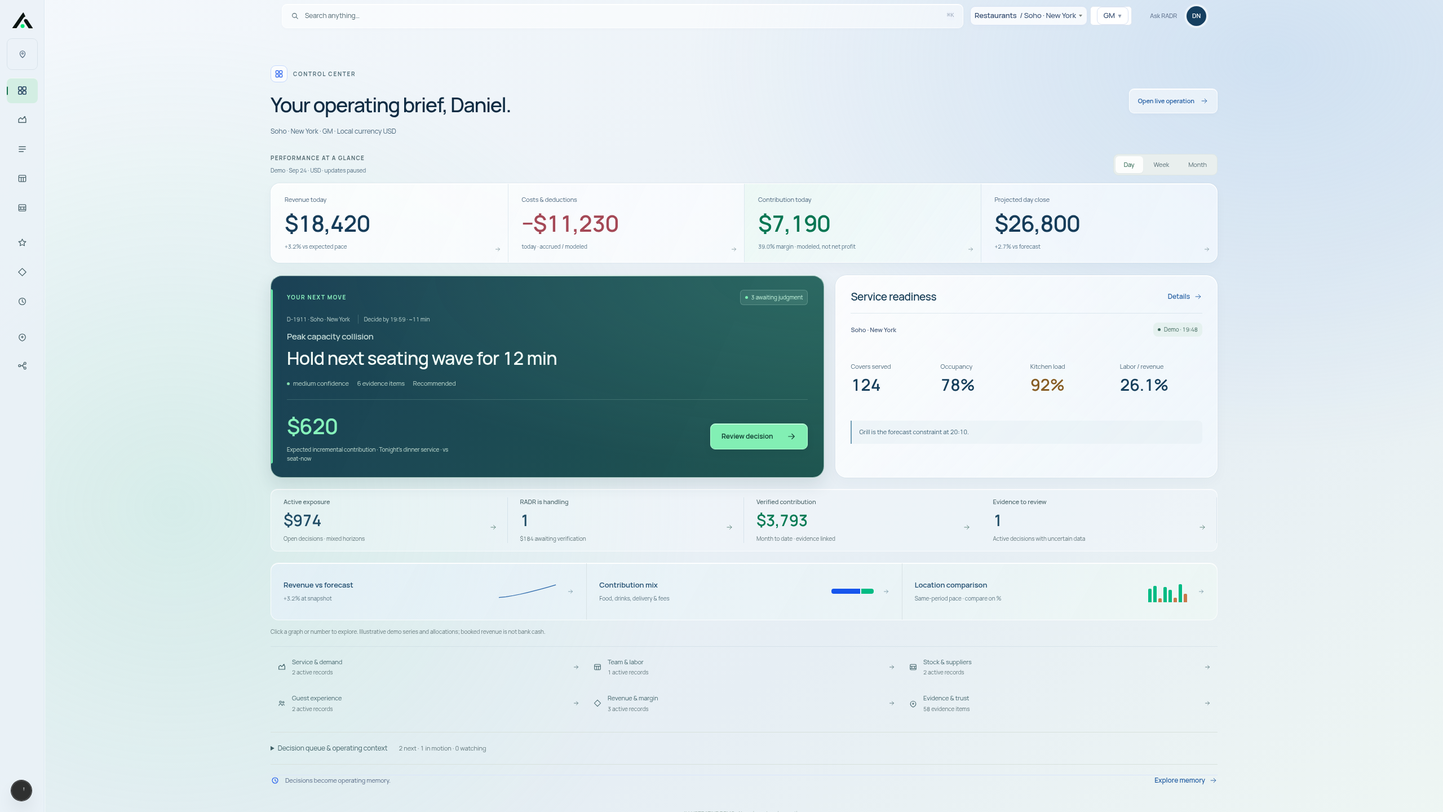
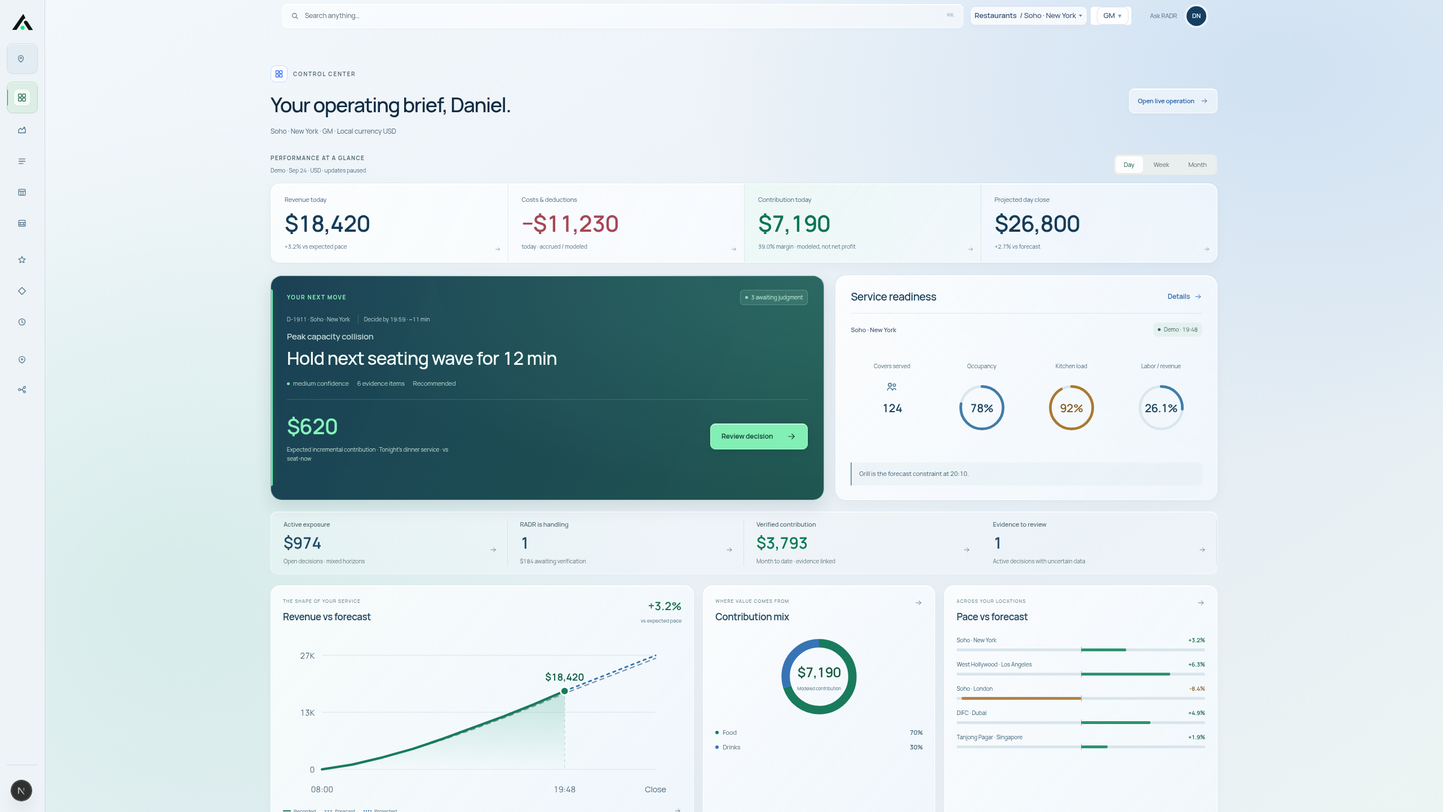
Add visual financial context and readiness instruments to Control Center

diff --git a/components/product/reference/ControlCenterPremium.tsx b/components/product/reference/ControlCenterPremium.tsx
@@ -40,6 +40,13 @@ function DecisionLine({ record }: { record: DecisionRecord }) {
   </Link>;
 }
 
+function ReadinessFact({fact}:{fact:{label:string;value:string;risk?:boolean}}) {
+  const ratio=fact.value.match(/^(\d+)\/(\d+)$/);
+  const percentage=fact.value.endsWith("%")?Number.parseFloat(fact.value):ratio&&Number(ratio[2])>0?Number(ratio[1])/Number(ratio[2])*100:null;
+  const Icon=/covers|arrivals/i.test(fact.label)?NAV_ICONS.guests:NAV_ICONS.value;
+  return <div className="cc-readiness-instrument" data-risk={fact.risk||undefined}><span>{fact.label}</span><div className="cc-instrument-face">{percentage!==null&&Number.isFinite(percentage)?<svg viewBox="0 0 100 100" aria-hidden="true"><circle cx="50" cy="50" r="40" className="cc-instrument-track"/><circle cx="50" cy="50" r="40" className="cc-instrument-progress" pathLength="100" strokeDasharray={`${Math.min(100,Math.max(0,percentage))} 100`} transform="rotate(-90 50 50)"/></svg>:<Icon/>}<strong>{fact.value}</strong></div></div>;
+}
+
 /** A scoped daily brief. Operating snapshots are explicitly tied to their demo venue. */
 export function ControlCenterPremium() {
   const { roleView, vertical, records, summary, scopeLabel, locationScope, comparisonLocationIds } = useRecords();
@@ -86,12 +93,12 @@ export function ControlCenterPremium() {
       <section className="cc-priority" aria-labelledby="cc-priority-title"><header><span className="cc-section-label">YOUR NEXT MOVE</span><StatusPill tone={primary?"attention":"healthy"}>{needs.length?`${needs.length} awaiting judgment`:"No review pending"}</StatusPill></header>
        {primary?<><div className="cc-priority-meta"><span>{displayDecisionId(primary.id)} · {primary.property}</span><span>{primary.decisionDeadline||clean(primary.decisionHorizon.replaceAll("_"," ").toLowerCase())}</span></div><h2 id="cc-priority-title">{primary.title}</h2><p className="cc-priority-recommendation">{clean(primary.recommendationHeadline||primary.contextLine)}</p><div className="cc-decision-assurance"><span><i aria-hidden="true"/>{primary.confidence.userFacing.toLowerCase()} confidence</span><span>{primary.evidenceRefs.length} evidence items</span><span>{lifecycleLabel(primary.status)}</span></div><footer><div className="cc-compact-impact"><strong>{metric?.money||"Review impact"}</strong><small>{metric?.caption||"Evidence-linked decision"}</small></div><Link className="cc-primary-action" href={decisionHref(primary)}>Review decision <Arrow/></Link></footer></>:<div className="cc-priority-empty"><h2 id="cc-priority-title">No decisions awaiting judgment.</h2><TextLink href="/app/decisions">Explore decision record</TextLink></div>}
       </section>
-      <Panel title={hotel?"Arrival readiness":"Service readiness"} action={<TextLink href="/app/service">Details</TextLink>} className="cc-readiness">{snapshotAvailable?<><div className="cc-snapshot-meta"><span>{hotel?.locationLabel||service.location}</span><StatusPill tone="neutral">Demo · {hotel?.clockLabel||service.liveTime}</StatusPill></div><div className="cc-readiness-facts">{importantFacts.map(fact=><div key={fact.label} data-risk={fact.risk||undefined}><span>{fact.label}</span><strong>{fact.value}</strong></div>)}</div><p className="cc-compact-readiness">{hotel?`${hotel.capacity.inspectionBacklog} rooms await inspection. Review the arrival wave.`:`${BERLIN_GM_LIVE_STATE.constraintStation} is the forecast constraint at ${BERLIN_GM_LIVE_STATE.constraintTime}.`}</p>{locationScope==="all"||comparisonLocationIds.length>=2?<small className="cc-scope-note">Featured venue, not an estate-wide total.</small>:null}</>:<div className="cc-snapshot-empty"><h3>No readiness snapshot for this selection.</h3><TextLink href="/app/locations">Review locations</TextLink></div>}</Panel>
+      <Panel title={hotel?"Arrival readiness":"Service readiness"} action={<TextLink href="/app/service">Details</TextLink>} className="cc-readiness">{snapshotAvailable?<><div className="cc-snapshot-meta"><span>{hotel?.locationLabel||service.location}</span><StatusPill tone="neutral">Demo · {hotel?.clockLabel||service.liveTime}</StatusPill></div><div className="cc-readiness-facts">{importantFacts.map(fact=><ReadinessFact key={fact.label} fact={fact}/>)}</div><p className="cc-compact-readiness">{hotel?`${hotel.capacity.inspectionBacklog} rooms await inspection. Review the arrival wave.`:`${BERLIN_GM_LIVE_STATE.constraintStation} is the forecast constraint at ${BERLIN_GM_LIVE_STATE.constraintTime}.`}</p>{locationScope==="all"||comparisonLocationIds.length>=2?<small className="cc-scope-note">Featured venue, not an estate-wide total.</small>:null}</>:<div className="cc-snapshot-empty"><h3>No readiness snapshot for this selection.</h3><TextLink href="/app/locations">Review locations</TextLink></div>}</Panel>
     </div>
     <section className="cc-money-strip" aria-label="Decision value summary"><Link href="/app/decisions?band=needs_you"><span>Active exposure</span><strong>{formatDecisionMoney(aggregate.activeExposure,aggregate.currency)}</strong><small>Open decisions · mixed horizons</small><Arrow/></Link><Link href="/app/decisions?band=handling"><span>RADR is handling</span><strong>{handling.length}</strong><small>{formatDecisionMoney(aggregate.pendingVerification,aggregate.currency)} awaiting verification</small><Arrow/></Link><Link href="/app/value" className="cc-verified"><span>Verified contribution</span><strong>{value.verifiedFormatted}</strong><small>Month to date · evidence linked</small><Arrow/></Link><Link href="/app/data-health"><span>Evidence to review</span><strong>{uncertain.length}</strong><small>Active decisions with uncertain data</small><Arrow/></Link></section>
     </ExecutivePulse>
-    <section className="cc-compact-areas" id="cc-operating-picture" aria-label="Operating areas">{AREAS.map(area=>{const matches=active.filter(record=>area.match.test(`${record.title} ${record.decisionType} ${(record.territories||[]).join(" ")}`));const Icon=NAV_ICONS[area.icon];return <Link key={area.id} href={area.href}><Icon/><span>{vertical==="hotel"?area.hotel:area.title}<small>{matches.length} active records</small></span><Arrow/></Link>;})}<Link href="/app/data-health"><EvidenceIcon/><span>Evidence & trust<small>{evidence.length} evidence items</small></span><Arrow/></Link></section>
-    <details className="cc-brief-details"><summary><span>Decision queue & operating context</span><small>{Math.max(0,needs.length-1)} next · {handling.length} in motion · {watching.length} watching</small></summary><div className="cc-work-grid"><Panel title="Next in your judgment queue" action={<TextLink href="/app/decisions?band=needs_you">All decisions</TextLink>}>{needs.slice(1,4).map(record=><DecisionLine key={record.id} record={record}/>)}{needs.length<=1?<p className="cc-empty-note">No additional decisions await judgment.</p>:null}</Panel><Panel title="Evidence behind the priority" action={<TextLink href="/app/data-health">Evidence health</TextLink>}>{primary?.evidenceRefs.slice(0,3).map(ref=><div className="cc-evidence-row" key={ref.id}><strong>{clean(ref.label)}</strong><p>{clean(ref.value)}</p><small>{ref.source} · {ref.freshness}</small></div>)}{!primary?<p className="cc-empty-note">Open a Decision to inspect its evidence.</p>:null}</Panel></div></details>
+
+    <details className="cc-brief-details"><summary><span>Decision queue & operating context</span><small>{Math.max(0,needs.length-1)} next · {handling.length} in motion · {watching.length} watching</small></summary><section className="cc-compact-areas" id="cc-operating-picture" aria-label="Operating areas">{AREAS.map(area=>{const matches=active.filter(record=>area.match.test(`${record.title} ${record.decisionType} ${(record.territories||[]).join(" ")}`));const Icon=NAV_ICONS[area.icon];return <Link key={area.id} href={area.href}><Icon/><span>{vertical==="hotel"?area.hotel:area.title}<small>{matches.length} active records</small></span><Arrow/></Link>;})}<Link href="/app/data-health"><EvidenceIcon/><span>Evidence & trust<small>{evidence.length} evidence items</small></span><Arrow/></Link></section><div className="cc-work-grid"><Panel title="Next in your judgment queue" action={<TextLink href="/app/decisions?band=needs_you">All decisions</TextLink>}>{needs.slice(1,4).map(record=><DecisionLine key={record.id} record={record}/>)}{needs.length<=1?<p className="cc-empty-note">No additional decisions await judgment.</p>:null}</Panel><Panel title="Evidence behind the priority" action={<TextLink href="/app/data-health">Evidence health</TextLink>}>{primary?.evidenceRefs.slice(0,3).map(ref=><div className="cc-evidence-row" key={ref.id}><strong>{clean(ref.label)}</strong><p>{clean(ref.value)}</p><small>{ref.source} · {ref.freshness}</small></div>)}{!primary?<p className="cc-empty-note">Open a Decision to inspect its evidence.</p>:null}</Panel></div></details>
     <footer className="cc-footer-note"><span><NAV_ICONS.memory/>Decisions become operating memory.</span><TextLink href="/app/memory">Explore memory</TextLink></footer>
   </div>;
 }

diff --git a/app/radr-material-system.css b/app/radr-material-system.css
@@ -257,3 +257,69 @@
 
 .rp-root.rp-shell-v2.rp-premium[data-theme=daylight][data-page=control-center] .cc-priority .cc-priority-empty .rs-text-link {color:#c3f4df;}
 @media(prefers-reduced-transparency:reduce) {.rp-root.rp-shell-v2.rp-premium[data-theme=daylight][data-page=control-center] {background-image:none!important;}}
+/* Native visual instruments and directly readable financial graphics. */
+.rp-premium[data-page=control-center] .cc-visuals {display:grid;grid-template-columns:minmax(0,1.55fr) minmax(0,.85fr) minmax(0,1fr);gap:16px;margin-top:20px;}
+.rp-premium[data-page=control-center] .cc-visual {display:flex;flex-direction:column;text-align:left;min-width:0;padding:21px;border:1px solid #ffffffe6;border-radius:17px;background:linear-gradient(130deg,#ffffffc9,#f2f9ffba);box-shadow:inset 0 1px 0 #fff,0 7px 20px #21496b08;font:inherit;color:#21465f;cursor:pointer;transition:background 180ms ease,border-color 180ms ease;}
+.rp-premium[data-page=control-center] .cc-visual:hover {background:#f5fbff;border-color:#aecbdc;}
+.rp-premium[data-page=control-center] .cc-visual>header {display:flex;justify-content:space-between;gap:12px;align-items:flex-start;width:100%;}
+.rp-premium[data-page=control-center] .cc-visual>header>span:first-child {display:flex;flex-direction:column;gap:9px;}
+.rp-premium[data-page=control-center] .cc-visual>header small {font-size:8px;letter-spacing:1.2px;color:#4d6c7c;line-height:1.5;}
+.rp-premium[data-page=control-center] .cc-visual>header strong {font-size:17px;letter-spacing:-.4px;font-weight:550;}
+.rp-premium[data-page=control-center] .cc-visual>header>svg {width:15px;flex-shrink:0;color:#4a7a8c;}
+.rp-premium[data-page=control-center] .cc-visual-delta {font-size:20px;font-weight:600;color:#19704f;text-align:right;white-space:nowrap;}
+.rp-premium[data-page=control-center] .cc-visual-delta small {display:block;letter-spacing:0!important;font-size:9px!important;font-weight:400;margin-top:4px;}
+.rp-premium[data-page=control-center] .cc-revenue-graphic {width:100%;height:auto;display:block;margin-top:12px;overflow:visible;}
+.rp-premium[data-page=control-center] .cc-revenue-graphic text {font-family:var(--font-product),sans-serif;font-size:10px;fill:#4c687b;}
+.rp-premium[data-page=control-center] .cc-revenue-graphic .cc-chart-current {font-weight:650;font-size:12px;fill:#116349;}
+.rp-premium[data-page=control-center] .cc-revenue-graphic path:not([fill]) {fill:none;stroke-linecap:round;stroke-linejoin:round;}
+.rp-premium[data-page=control-center] .cc-actual-line {stroke:#197b5c;stroke-width:3;}
+.rp-premium[data-page=control-center] .cc-forecast-line {stroke:#7a94ac;stroke-width:1.5;stroke-dasharray:5 5;}
+.rp-premium[data-page=control-center] .cc-projection-line {stroke:#3674b6;stroke-width:2;stroke-dasharray:3 5;}
+.rp-premium[data-page=control-center] .cc-trend-visual>footer {display:flex;align-items:center;gap:15px;width:100%;font-size:9px;color:#49687a;}
+.rp-premium[data-page=control-center] .cc-trend-visual>footer>span {display:flex;gap:5px;align-items:center;}
+.rp-premium[data-page=control-center] .cc-trend-visual>footer i {display:inline-block;width:14px;height:2px;background:#197b5c;}
+.rp-premium[data-page=control-center] .cc-trend-visual>footer .is-forecast {background:repeating-linear-gradient(90deg,#7a94ac 0 3px,transparent 3px 5px);}
+.rp-premium[data-page=control-center] .cc-trend-visual>footer .is-projection {background:repeating-linear-gradient(90deg,#3674b6 0 2px,transparent 2px 4px);}
+.rp-premium[data-page=control-center] .cc-trend-visual>footer>svg {width:13px;margin-left:auto;}
+.rp-premium[data-page=control-center] .cc-visual-provenance {font-size:9px;line-height:1.6;color:#526f7d;margin:12px 0 0;}
+.rp-premium[data-page=control-center] .cc-donut-wrap {position:relative;width:158px;max-width:100%;margin:15px auto 12px;}
+.rp-premium[data-page=control-center] .cc-donut-wrap>svg {width:100%;height:auto;display:block;}
+.rp-premium[data-page=control-center] .cc-donut-wrap>div {position:absolute;inset:0;display:flex;flex-direction:column;align-items:center;justify-content:center;gap:5px;}
+.rp-premium[data-page=control-center] .cc-donut-wrap strong {font-size:24px;letter-spacing:-.7px;color:#17593f;font-weight:600;}
+.rp-premium[data-page=control-center] .cc-donut-wrap small {font-size:8px;color:#4e6b78;}
+.rp-premium[data-page=control-center] .cc-mix-legend {list-style:none;padding:0;margin:0;width:100%;display:grid;gap:9px;}
+.rp-premium[data-page=control-center] .cc-mix-legend li {display:flex;justify-content:space-between;gap:10px;font-size:11px;color:#436377;}
+.rp-premium[data-page=control-center] .cc-mix-legend li>span {display:flex;align-items:center;gap:7px;}
+.rp-premium[data-page=control-center] .cc-mix-legend i {width:6px;height:6px;border-radius:50%;flex-shrink:0;}
+.rp-premium[data-page=control-center] .cc-mix-legend b {font-weight:550;}
+.rp-premium[data-page=control-center] .cc-peer-list {display:grid;gap:16px;margin-top:22px;width:100%;}
+.rp-premium[data-page=control-center] .cc-peer-row>div:first-child {display:flex;justify-content:space-between;gap:12px;font-size:10px;color:#365b73;margin-bottom:7px;}
+.rp-premium[data-page=control-center] .cc-peer-row b {color:#146343;font-weight:550;white-space:nowrap;}
+.rp-premium[data-page=control-center] .cc-peer-row b[data-negative] {color:#8b5e28;}
+.rp-premium[data-page=control-center] .cc-peer-track {height:5px;background:#d9e5ed;position:relative;border-radius:3px;}
+.rp-premium[data-page=control-center] .cc-peer-zero {position:absolute;left:50%;width:1px;top:-3px;bottom:-3px;background:#8ca5b8;}
+.rp-premium[data-page=control-center] .cc-peer-fill {position:absolute;height:100%;background:#299370;border-radius:2px;}
+.rp-premium[data-page=control-center] .cc-peer-fill[data-negative] {background:#b78046;}
+.rp-premium[data-page=control-center] .cc-peer-visual .cc-visual-provenance {margin-top:auto;padding-top:18px;}
+.rp-root.rp-shell-v2.rp-premium[data-theme=daylight][data-page=control-center] .cc-readiness-facts {padding:19px 0;align-items:start;}
+.rp-root.rp-shell-v2.rp-premium[data-theme=daylight][data-page=control-center] .cc-readiness-instrument {text-align:center;}
+.rp-root.rp-shell-v2.rp-premium[data-theme=daylight][data-page=control-center] .cc-readiness-instrument>span {font-size:10px;}
+.rp-premium[data-page=control-center] .cc-instrument-face {position:relative;width:94px;max-width:100%;height:100px;margin:9px auto 0;display:flex;align-items:center;justify-content:center;}
+.rp-premium[data-page=control-center] .cc-instrument-face>svg[viewBox="0 0 100 100"] {position:absolute;inset:0;width:100%;height:100%;}
+.rp-premium[data-page=control-center] .cc-instrument-track {fill:none;stroke:#d9e7ee;stroke-width:5;}
+.rp-premium[data-page=control-center] .cc-instrument-progress {fill:none;stroke:#427ca8;stroke-width:5;stroke-linecap:round;}
+.rp-premium[data-page=control-center] [data-risk=true] .cc-instrument-progress {stroke:#ab792f;}
+.rp-root.rp-shell-v2.rp-premium[data-theme=daylight][data-page=control-center] .cc-instrument-face>strong {font-size:20px;position:relative;}
+.rp-premium[data-page=control-center] .cc-instrument-face>svg:not([viewBox="0 0 100 100"]) {width:25px;height:25px;position:absolute;top:0;color:#4d7d98;}
+@media(max-width:1100px) {.rp-premium[data-page=control-center] .cc-visuals {grid-template-columns:1fr 1fr;}.rp-premium[data-page=control-center] .cc-trend-visual {grid-column:1/-1;}.rp-premium[data-page=control-center] .cc-revenue-graphic {max-height:235px;}}
+@media(max-width:700px) {.rp-premium[data-page=control-center] .cc-visuals {grid-template-columns:1fr;}.rp-premium[data-page=control-center] .cc-trend-visual {grid-column:auto;}.rp-premium[data-page=control-center] .cc-visual {padding:19px;}.rp-premium[data-page=control-center] .cc-visual>header strong {font-size:17px;}.rp-premium[data-page=control-center] .cc-revenue-graphic {margin-top:22px;}}
+.rp-premium[data-page=control-center] .cc-graphics-hint {display:none;}
+@media(max-width:700px) {
+ .rp-premium[data-page=control-center] .cc-visuals {grid-template-columns:none;grid-auto-flow:column;grid-auto-columns:calc(100% - 22px);overflow-x:auto;scroll-snap-type:x proximity;gap:12px;padding:2px 1px 10px;scrollbar-width:thin;}
+ .rp-premium[data-page=control-center] .cc-visuals>.cc-visual {grid-column:auto;scroll-snap-align:start;min-height:355px;}
+ .rp-premium[data-page=control-center] .cc-graphics-hint {display:block;font-size:10px;color:#4e6f80;margin:4px 0 0;}
+}
+@media(max-width:700px) {
+ .rp-premium[data-page=control-center] .cc-revenue-graphic text {font-size:15px;}
+ .rp-premium[data-page=control-center] .cc-revenue-graphic .cc-chart-current {font-size:17px;}
+}

diff --git a/components/product/reference/ExecutivePulse.tsx b/components/product/reference/ExecutivePulse.tsx
@@ -4,17 +4,17 @@ import {aggregateTrend,trendScope,trendEstate,locationTrend,type TrendPeriod} fr
 import {revenueBridge} from "@/lib/product/revenueBridge";
 import {PerformanceTicker,type PerformanceView} from "./PerformanceTicker";
 import {Arrow} from "./ReferenceUI";
+import {BriefGraphics} from "./BriefGraphics";
 
 export function ExecutivePulse({vertical,scope,comparison,children}:{vertical:string;scope:string;comparison:string[];children?:ReactNode}){
- const [period,setPeriod]=useState<TrendPeriod>("day");const [view,setView]=useState<PerformanceView|null>(null);const dialog=useRef<HTMLDialogElement>(null);
+ const [period,setPeriod]=useState<TrendPeriod>("day");const [view,setView]=useState<PerformanceView|null>(null);const dialog=useRef<HTMLDialogElement>(null);const previousBodyOverflow=useRef("");
  const entities=trendScope(vertical,scope,comparison);const series=aggregateTrend(entities,period);const bridge=revenueBridge(entities,period);
- useEffect(()=>{if(!view)return;const previous=document.body.style.overflow;document.body.style.overflow="hidden";dialog.current?.showModal();return()=>{document.body.style.overflow=previous;};},[view]);
+ useEffect(()=>{if(!view)return;const previous=document.body.style.overflow;previousBodyOverflow.current=previous;document.body.style.overflow="hidden";dialog.current?.showModal();return()=>{document.body.style.overflow=previous;};},[view]);
+ const closeDetail=()=>{document.body.style.overflow=previousBodyOverflow.current;dialog.current?.close();setView(null);};
  const money=(value:number)=>new Intl.NumberFormat("en-US",{style:"currency",currency:series?.currency||"USD",maximumFractionDigits:0}).format(value);
  const pct=(value:number)=>`${value>=0?"+":""}${value.toFixed(1)}%`;
  const now=period==="day"?"today":period==="week"?"week to date":"month to date";
  const peers=(entities.length>1?entities:trendEstate(vertical)).slice(0,8).map(e=>locationTrend(e,period));
- const points=series?.points.filter(p=>p.actual!==null)||[];
- const path=points.map((p,i)=>`${i?"L":"M"}${i*260/Math.max(1,points.length-1)},${65-(p.actual||0)/(series?.actual||1)*58}`).join(" ");
  return <section className="ep-overview" aria-label="Executive financial overview" data-testid="executive-overview">
   <header><div><span className="pt-eyebrow">PERFORMANCE AT A GLANCE</span><small>Demo · Sep 24 · {series?.currency||"No series"} · updates paused</small></div><div className="pt-periods" aria-label="Brief performance period">{(["day","week","month"] as const).map(p=><button type="button" key={p} aria-pressed={period===p} onClick={()=>setPeriod(p)}>{p==="day"?"Day":p==="week"?"Week":"Month"}</button>)}</div></header>
   {series&&bridge?<><div className="ep-metrics">
@@ -22,11 +22,7 @@ export function ExecutivePulse({vertical,scope,comparison,children}:{vertical:st
    <button type="button" className="ep-cost" onClick={()=>setView("contribution")}><span>Costs & deductions</span><strong>−{money(bridge.cost)}</strong><small>{now} · accrued / modeled</small><Arrow/></button>
    <button type="button" className="ep-contribution" onClick={()=>setView("contribution")}><span>Contribution {now}</span><strong>{money(bridge.contribution)}</strong><small>{(bridge.contribution/bridge.revenue*100).toFixed(1)}% margin · modeled, not net profit</small><Arrow/></button>
    <button type="button" onClick={()=>setView("revenue")}><span>Projected {period} close</span><strong>{money(series.projected)}</strong><small>{pct((series.projected/series.forecast-1)*100)} vs forecast{vertical==="hotel"?" · rooms only":""}</small><Arrow/></button>
-  </div>{children}<div className="ep-graphs">
-   <button type="button" className="ep-graph" onClick={()=>setView("revenue")} aria-label="Open revenue performance details"><span><strong>Revenue vs forecast</strong><small>{pct(series.delta)} at snapshot{vertical==="hotel"?" · room revenue":""}</small></span><svg viewBox="0 0 270 75" aria-hidden="true"><path d={points.map((p,i)=>`${i?"L":"M"}${i*260/Math.max(1,points.length-1)},${65-p.forecast/series.actual*58}`).join(" ")} fill="none" stroke="#9eb2cc" strokeDasharray="4 4" strokeWidth="2"/><path d={path} fill="none" stroke="#1755ed" strokeWidth="2.5"/></svg><Arrow/></button>
-   <button type="button" className="ep-graph" onClick={()=>setView("contribution")} aria-label="Open contribution details"><span><strong>Contribution mix</strong><small>{vertical==="hotel"?"Departments, channels & costs":"Food, drinks, delivery & fees"}</small></span><div className="ep-mix">{bridge.products.map((r,i)=><i key={r.id} style={{width:`${r.contribution/bridge.contribution*100}%`,background:["#1755ed","#00bb83","#4a7baf","#8fcbb7"][i]}}/>)}</div><Arrow/></button>
-   <button type="button" className="ep-graph" onClick={()=>setView("locations")} aria-label="Open location comparisons"><span><strong>Location comparison</strong><small>Same-period pace · compare on %</small></span><div className="ep-comparison-bars" aria-hidden="true">{peers.map(peer=><i key={peer.id} style={{height:`${Math.max(12,Math.min(90,50+peer.delta*4))}%`,background:peer.delta>=0?"#00bb83":"#c87849"}}/>)}</div><Arrow/></button>
-  </div><p className="ep-note">Click a graph or number to explore. Illustrative demo series and allocations; booked revenue is not bank cash.</p></>:<><p>No performance series for this selection.</p>{children}</>}
-  <dialog ref={dialog} className="ep-dialog" aria-label="Performance detail" onClose={()=>setView(null)}><div className="ep-dialog-bar"><strong>Performance detail</strong><button type="button" onClick={()=>dialog.current?.close()} aria-label="Close performance details">Close <span aria-hidden>×</span></button></div>{view?<PerformanceTicker vertical={vertical} scope={scope} comparison={comparison} initialView={view} initialPeriod={period}/>:null}</dialog>
+  </div>{children}<BriefGraphics series={series} bridge={bridge} peers={peers} isHotel={vertical==="hotel"} onOpen={setView}/><p className="ep-note">Click a graph or number to explore. Illustrative demo series and allocations; booked revenue is not bank cash.</p></>:<><p>No performance series for this selection.</p>{children}</>}
+  <dialog ref={dialog} className="ep-dialog" aria-label="Performance detail" onCancel={event=>{event.preventDefault();closeDetail();}} onClose={()=>{document.body.style.overflow=previousBodyOverflow.current;setView(null);}}><div className="ep-dialog-bar"><strong>Performance detail</strong><button type="button" onClick={closeDetail} aria-label="Close performance details">Close <span aria-hidden>×</span></button></div>{view?<PerformanceTicker vertical={vertical} scope={scope} comparison={comparison} initialView={view} initialPeriod={period}/>:null}</dialog>
  </section>;
 }

diff --git a/components/product/reference/BriefGraphics.tsx b/components/product/reference/BriefGraphics.tsx
@@ -1,0 +1,45 @@
+"use client";
+
+import { useId } from "react";
+import type { TrendSeries } from "@/lib/product/performanceTrend";
+import type { revenueBridge } from "@/lib/product/revenueBridge";
+import type { PerformanceView } from "./PerformanceTicker";
+import { Arrow } from "./ReferenceUI";
+
+type Bridge = NonNullable<ReturnType<typeof revenueBridge>>;
+const COLORS = ["#197b5c", "#3674b6", "#75b6a2", "#a0b8d4"];
+
+export function BriefGraphics({series,bridge,peers,isHotel,onOpen}:{series:TrendSeries;bridge:Bridge;peers:TrendSeries[];isHotel:boolean;onOpen:(view:PerformanceView)=>void}) {
+ const id=useId().replace(/:/g,"");
+ const money=(n:number)=>new Intl.NumberFormat("en-US",{style:"currency",currency:series.currency,maximumFractionDigits:0}).format(n);
+ const compactMoney=(n:number)=>new Intl.NumberFormat("en-US",{style:"currency",currency:series.currency,notation:Math.abs(n)>=100000?"compact":"standard",maximumFractionDigits:Math.abs(n)>=100000?1:0}).format(n);
+ const max=Math.max(1,...series.points.flatMap(p=>[p.forecast,p.actual??0,p.projection??0]));
+ const x=(i:number)=>48+i*410/Math.max(1,series.points.length-1);
+ const y=(n:number)=>170-n/max*140;
+ const line=(key:"actual"|"forecast"|"projection")=>series.points.flatMap((p,i)=>p[key]===null?[]:[`${i===0||series.points[i-1][key]===null?"M":"L"}${x(i)},${y(p[key]!)}`]).join(" ");
+ const actual=series.points.map((p,i)=>({p,i})).filter(({p})=>p.actual!==null);
+ const last=actual.at(-1);
+ const area=last?`${line("actual")} L${x(last.i)},170 L48,170 Z`:"";
+ const positiveTotal=bridge.products.reduce((sum,p)=>sum+Math.max(0,p.contribution),0);
+ let offset=0;
+ const segments=bridge.products.map((p,i)=>{const share=positiveTotal?Math.max(0,p.contribution)/positiveTotal:0;const segment={...p,share,offset,color:COLORS[i%COLORS.length]};offset+=share;return segment;});
+ const extent=Math.max(5,...peers.map(p=>Math.abs(p.delta)));
+ return <><section className="cc-visuals" aria-label="Performance graphics">
+  <button type="button" className="cc-visual cc-trend-visual" onClick={()=>onOpen("revenue")} aria-label="Open revenue performance details">
+   <header><span><small>THE SHAPE OF YOUR SERVICE</small><strong>Revenue vs forecast</strong></span><span className="cc-visual-delta">{series.delta>=0?"+":""}{series.delta.toFixed(1)}%<small>vs expected pace</small></span></header>
+   <svg className="cc-revenue-graphic" viewBox="0 0 490 215" role="img" aria-label={`${money(series.actual)} recorded; ${money(series.projected)} projected close. ${isHotel?"Room revenue. ":""}Illustrative demo trajectory.`}>
+    <defs><linearGradient id={`${id}-fill`} x1="0" y1="0" x2="0" y2="1"><stop offset="0" stopColor="#1a9d71" stopOpacity=".22"/><stop offset="1" stopColor="#1a9d71" stopOpacity="0"/></linearGradient></defs>
+    {[0,.5,1].map(t=><g key={t}><line x1="48" x2="458" y1={y(max*t)} y2={y(max*t)} stroke="#a6bdce" strokeOpacity=".24"/><text x="39" y={y(max*t)+4} textAnchor="end">{new Intl.NumberFormat("en-US",{notation:"compact",maximumFractionDigits:0}).format(max*t)}</text></g>)}
+    <path d={area} fill={`url(#${id}-fill)`}/><path d={line("forecast")} className="cc-forecast-line"/><path d={line("projection")} className="cc-projection-line"/><path d={line("actual")} className="cc-actual-line"/>
+    {last?<><line x1={x(last.i)} x2={x(last.i)} y1={y(last.p.actual!)} y2="170" stroke="#478d78" strokeOpacity=".25" strokeDasharray="3 4"/><circle cx={x(last.i)} cy={y(last.p.actual!)} r="5" fill="#197b5c" stroke="#f3fff9" strokeWidth="2"/><text className="cc-chart-current" x={x(last.i)} y={y(last.p.actual!)-13} textAnchor="middle">{money(series.actual)}</text></>:null}
+    {series.points.map((p,i)=>i===0||i===series.cutoff||i===series.points.length-1?<text key={p.label} x={x(i)} y="198" textAnchor="middle">{p.label}</text>:null)}
+   </svg><footer><span><i className="is-actual"/>Recorded</span><span><i className="is-forecast"/>Forecast</span><span><i className="is-projection"/>Projected</span><Arrow/></footer><p className="cc-visual-provenance">{isHotel?"Room revenue · ":""}Demo trajectory · updates paused</p>
+  </button>
+  <button type="button" className="cc-visual cc-mix-visual" onClick={()=>onOpen("contribution")} aria-label="Open contribution details">
+   <header><span><small>WHERE VALUE COMES FROM</small><strong>Contribution mix</strong></span><Arrow/></header>
+   <div className="cc-donut-wrap"><svg viewBox="0 0 160 160" role="img" aria-label={`${money(bridge.contribution)} modeled contribution, split by ${isHotel?"department":"product"}.`}><circle cx="80" cy="80" r="60" fill="none" stroke="#dce8eb" strokeWidth="15"/>{segments.map(s=><circle key={s.id} cx="80" cy="80" r="60" pathLength="100" fill="none" stroke={s.color} strokeWidth="15" strokeDasharray={`${s.share*100} ${100-s.share*100}`} strokeDashoffset={-s.offset*100} transform="rotate(-90 80 80)"><title>{`${s.label}: ${money(s.contribution)}, ${Math.round(s.share*100)}%`}</title></circle>)}</svg><div><strong>{compactMoney(bridge.contribution)}</strong><small>Modeled contribution</small></div></div>
+   <ul className="cc-mix-legend">{segments.map(s=><li key={s.id}><span><i style={{background:s.color}}/>{s.label}</span><b>{Math.round(s.share*100)}%</b></li>)}</ul>
+  </button>
+  <button type="button" className="cc-visual cc-peer-visual" onClick={()=>onOpen("locations")} aria-label="Open location comparisons"><header><span><small>ACROSS YOUR LOCATIONS</small><strong>Pace vs forecast</strong></span><Arrow/></header><div className="cc-peer-list">{peers.slice(0,5).map(p=><div className="cc-peer-row" key={p.id}><div><span>{p.label}</span><b data-negative={p.delta<0||undefined}>{p.delta>=0?"+":""}{p.delta.toFixed(1)}%</b></div><div className="cc-peer-track"><i className="cc-peer-zero"/><i className="cc-peer-fill" data-negative={p.delta<0||undefined} style={{left:`${p.delta<0?50-Math.abs(p.delta)/extent*48:50}%`,width:`${Math.abs(p.delta)/extent*48}%`}}/></div></div>)}</div><p className="cc-visual-provenance">Same-period pace · 0% baseline · illustrative peers</p></button>
+ </section><p className="cc-graphics-hint">Swipe graphics to explore · tap for the full detail</p></>;
+}

diff --git a/tests/e2e/control-center-graphics.spec.ts b/tests/e2e/control-center-graphics.spec.ts
@@ -1,0 +1,11 @@
+import {test,expect} from "playwright/test";
+
+test("graphics use the selected period and preserve recorded versus modeled meaning",async({page})=>{
+ await page.goto("/app?stay=1");const chart=page.locator(".cc-revenue-graphic");await expect(chart).toHaveAttribute("aria-label",/\$18,420 recorded/);await expect(page.locator(".cc-mix-legend")).toContainText("Food");await expect(page.locator(".cc-mix-legend")).toContainText("Drinks");await expect(page.locator(".cc-peer-list")).toContainText("-");
+ await expect(page.locator('.cc-readiness-instrument').filter({hasText:"Occupancy"}).locator(".cc-instrument-progress")).toHaveAttribute("stroke-dasharray","78 100");await expect(page.locator('.cc-readiness-instrument').filter({hasText:"Kitchen load"}).locator(".cc-instrument-progress")).toHaveAttribute("stroke-dasharray","92 100");
+ const daily=await chart.locator(".cc-actual-line").getAttribute("d");await page.getByRole("button",{name:"Week",exact:true}).click();await expect(chart.locator(".cc-actual-line")).not.toHaveAttribute("d",daily!);await expect(chart).toContainText("Thu 24");await page.getByRole("button",{name:"Month",exact:true}).click();await expect(chart).toContainText("Sep 30");expect(await chart.locator(".cc-projection-line").getAttribute("d")).not.toContain("NaN");
+});
+
+test("phone graphics can be reached horizontally without widening the page",async({page})=>{
+ await page.setViewportSize({width:390,height:900});await page.goto("/app?stay=1");const gallery=page.getByRole("region",{name:"Performance graphics",exact:true});await expect(gallery).toBeVisible();await page.getByRole("button",{name:"Open location comparisons",exact:true}).focus();expect(await gallery.evaluate(e=>e.scrollLeft)).toBeGreaterThan(0);expect(await page.evaluate(()=>document.documentElement.scrollWidth<=innerWidth)).toBeTruthy();await page.keyboard.press("Enter");await expect(page.getByRole("dialog",{name:"Performance detail",exact:true})).toBeVisible();
+});

diff --git a/tests/e2e/control-center-material.spec.ts b/tests/e2e/control-center-material.spec.ts
@@ -7,7 +7,7 @@ test("material pilot retains canonical Decision and passes contrast checks",asyn
 });
 
 test("4K composition centres and remains native vector UI",async({page})=>{
- await page.setViewportSize({width:3840,height:2160});await page.goto("/app?stay=1");const brief=await page.getByTestId("compact-control-center").boundingBox();expect(brief!.x+brief!.width/2).toBeCloseTo((3840+80)/2,0);expect(brief!.width).toBeLessThanOrEqual(1680);expect(await page.locator(".ep-graphs svg").count()).toBeGreaterThan(0);await expect(page.getByTestId("compact-control-center").locator("canvas")).toHaveCount(0);await expect(page.locator('.rs-brand img')).toHaveAttribute("src",/master-v4\.svg/);
+ await page.setViewportSize({width:3840,height:2160});await page.goto("/app?stay=1");const brief=await page.getByTestId("compact-control-center").boundingBox();expect(brief!.x+brief!.width/2).toBeCloseTo((3840+80)/2,0);expect(brief!.width).toBeLessThanOrEqual(1680);expect(await page.locator(".cc-visuals svg").count()).toBeGreaterThan(0);await expect(page.getByTestId("compact-control-center").locator("canvas")).toHaveCount(0);await expect(page.locator('.rs-brand img')).toHaveAttribute("src",/master-v4\.svg/);
 });
 
 test("material scope ends when leaving Control Center",async({page})=>{

diff --git a/docs/RADR_VISUAL_SYSTEM_AUDIT.md b/docs/RADR_VISUAL_SYSTEM_AUDIT.md
@@ -59,3 +59,12 @@ Stop at Control Center. Review this revised candidate with the user before apply
 The user identified content showing through the expanded sidebar and requested a more refined navigation. The shared rail now has a fully opaque material on every route, replacing the Control Center's translucent rail override. Product-page content remains scoped as before. The active destination gains a quiet descriptive line and a refined indicator; hover, keyboard focus, pinning, workspace links and mobile behavior retain the existing architecture.
 
 The opacity regression compares screenshots of the entire expanded rail before and after inverting the dashboard beneath it; they are byte-identical. The measured rail background is `rgb(237, 243, 247)` at opacity 1. Navigation Axe WCAG A/AA scan has no violations. Seven combined navigation and Control Center checks pass; TypeScript, targeted lint and whitespace checks pass. Screenshots are linked in the design-system document.
+
+
+## Follow-up: more visual Control Center
+
+The latest user request explicitly authorizes more graphics on Control Center. A full-period revenue/forecast/projection chart, labeled contribution ring, signed peer comparisons and readiness dials now use the existing trend, attribution and operating-snapshot data. No new data source or financial model. Negative peer pace is drawn left of the zero baseline, and future projection is clearly distinguished from recorded revenue. Hotel room-revenue context remains separate from all-department contribution.
+
+Desktop graphics are composed in one row; phone graphics are swipeable instead of stacked. The existing operating-area shortcuts remain available in the operating-context disclosure. The measured phone overview is approximately 2485px tall at 390px width, below the existing 2600px regression limit, with no horizontal document overflow. Escape/close restores page scrolling immediately as well as restoring keyboard focus.
+
+[Full visual overview](visual-qa/control-center-graphics.png). Updated desktop, QHD, 4K, mobile and double-density reflow captures are included. Full Control Center shell Axe WCAG A/AA scans report no violations. Fourteen regression checks cover canonical values, period changes, mobile graphic access, chart and financial drill-downs, hotel context, responsiveness, navigation opacity, focus and scroll restoration. TypeScript, targeted lint and whitespace checks pass.

diff --git a/docs/RADR_APP_DESIGN_SYSTEM.md b/docs/RADR_APP_DESIGN_SYSTEM.md
@@ -61,7 +61,13 @@ Working borders are translucent white over a cool blue-gray support edge. Decisi
 
 ## Chart language
 
-Existing charts remain native SVG and retain their existing datasets and drill-down behavior. The compact revenue line is analytical blue, forecast is a fine muted dashed line. Avoid plot boxes and heavy gridlines. Contribution and location marks retain their existing data and semantic colors. The three compact entry points form one analytical strip; full evidence appears on request in the existing accessible performance dialog. No chart screenshots or new charts are introduced.
+The user explicitly requested more Control Center graphics after the glass and navigation revisions. The overview now uses native SVG revenue trajectories, a contribution ring, signed location pace bars and readiness instruments. These replace the three tiny analytical previews and extend existing KPI presentation; they introduce no new financial model or external data source.
+
+Revenue graphics distinguish recorded values (green solid line), forecast (muted dashed line) and projected future (blue dotted line). All three use the same scale and full period timeline; future points are not rendered as recorded observations. Hotel revenue charts explicitly identify room revenue. The contribution ring uses the existing product/department allocation and labels modeled contribution; product and channel dimensions are never added together. Location bars share a zero baseline, with negative pace drawn to the left and positive pace to the right. Period, scope and currency come from the existing trend/bridge layer.
+
+Readiness rings represent actual percentages or ready/due ratios only. Counts and currency facts use a simple icon/value, without invented progress denominators. MEDIUM confidence is not converted into a percentage. The main Decision remains the priority object.
+
+On desktop, three graphics share a composed row. On phones, they form a swipeable gallery with a visible next-card edge and keyboard-focus scrolling, avoiding a long stack. Each opens the original accessible performance detail. Duplicate operating-area shortcuts move into the existing operating-context disclosure to preserve compactness.
 
 ## Motion and performance
 
